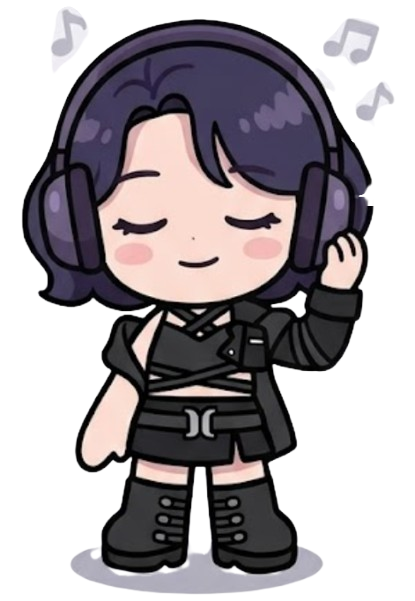
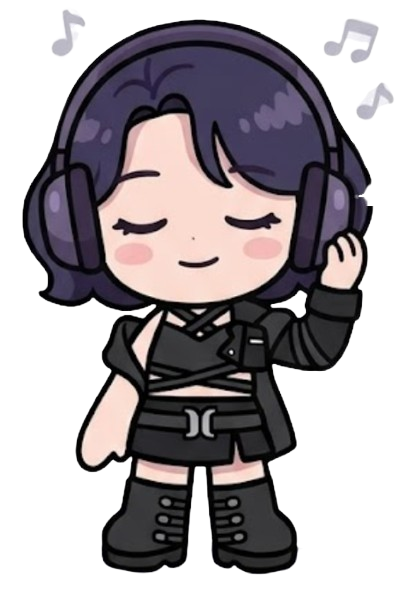
second session of css

diff --git a/index.html b/index.html
@@ -44,63 +44,68 @@
                         tanvi also loooves listening to music and her favorite music keeps evolving every other weeks<br>
                         and she listens to this favorite music a lot one week and forgets about it the other *rolls eyes*<br>
                         so here is a list of her current favorite songs curated by spotify's ai</p>
+                        <ul class="songs-list">
+                        <a href="https://youtu.be/H1Yt0xJKDY8" alt="link to mariah carey's obsessed music video">obsessed by mariah carey</a>
+                        </ul>
+                        <ul class="songs-list">
+                            <a href="https://youtu.be/Rt9tW3cMLhI" alt="link to olivia rodrigo's stupid song music video">stupid song by olivia rodrigo</a>
+                        </ul>
+                        <ul class="songs-list">
+                            <a href="https://youtu.be/o_1aF54DO60" alt="link to lana del rey's young and beautiful music video">young and beautiful by lana del rey</a>
+                        </ul>
+                        <ul class="songs-list">
+                            <a href="https://youtu.be/t4H_Zoh7G5A" alt="link to jennifer lopez and pitbull's on the floor music video">on the floor by jennifer lopez and pitbull</a>
+                        </ul>
+                        <ul class="songs-list">
+                            <a href="https://youtu.be/sQEgklEwhSo" alt="link to katy perry's harleys in hawaii music video">harlyes in hawaii by katy perry</a>
+                        </ul>
+                        <p id="songs-list-ps-note">p.s click on the name of the song to watch the music video</p>
                     </div>
                     <img src="images/navis_music.png" alt="image of navis with headphones" id="navis-image">
                 </div>
-                <ul class="songs-list">
-                    <a href="https://youtu.be/H1Yt0xJKDY8" alt="link to mariah carey's obsessed music video">obsessed by mariah carey</a>
-                </ul>
-                <ul class="songs-list">
-                    <a href="https://youtu.be/Rt9tW3cMLhI" alt="link to olivia rodrigo's stupid song music video">stupid song by olivia rodrigo</a>
-                </ul>
-                <ul class="songs-list">
-                    <a href="https://youtu.be/o_1aF54DO60" alt="link to lana del rey's young and beautiful music video">young and beautiful by lana del rey</a>
-                </ul>
-                <ul class="songs-list">
-                    <a href="https://youtu.be/t4H_Zoh7G5A" alt="link to jennifer lopez and pitbull's on the floor music video">on the floor by jennifer lopez and pitbull</a>
-                </ul>
-                <ul class="songs-list">
-                    <a href="https://youtu.be/sQEgklEwhSo" alt="link to katy perry's harleys in hawaii music video">harlyes in hawaii by katy perry</a>
-                </ul>
-                <p id="songs-list-ps-note">p.s click on the name of the song to watch the music video</p>
             </div>
             <div class="coding-languages">
-                <img src="images/navis_laptop.png" alt="image of navis with a laptop" id="navis-image">
-                <h2 id="coding-languages-header">code code code</h2>
-                <p id="coding-languages-desc">so tanvi recently got into the magical and frustrating world of coding<br>
-                she's still navigating through it and is at a beginner stage in her journey<br>
-                but today <strong>I</strong> decided to share some progress on her learning (i'm so great)<br>
-                so here is a list of the coding languages she's <em>explored</em> so far (it's all gibberish for me but i'll try my best to explain)</p>
+                <div class="coding-languages-desc-and-navis">
+                    <img src="images/navis_laptop.png" alt="image of navis with a laptop" id="navis-image">
+                    <div class="coding-languages-desc">
+                        <h2 id="coding-languages-header">code code code</h2>
+                        <p id="coding-languages-desc">so tanvi recently got into the magical and frustrating world of coding<br>
+                        she's still navigating through it and is at a beginner stage in her journey<br>
+                        but today <strong>I</strong> decided to share some progress on her learning (i'm so great)<br>
+                        so here is a list of the coding languages she's <em>explored</em> so far<br>
+                        (it's all gibberish for me but i'll try my best to explain)</p>
+                    </div>
+                </div>
                 <ul class="coding-languages-list">
-                    <img src="images/python.jpg" alt="python logo">
+                    <img src="images/python.jpg" alt="python logo" class="coding-languages-logo">
                     <p>python:<br>
                     this is the first ever coding language which she learnt (and remembered)<br>
                     she likes python because of its easy to learn syntax and would definitely recommend this to a beginner<br>
                     she learnt it by watching videos on youtube, doing mini puzzles, and taking lessons through her school's programming club</p>
                 </ul>
                 <ul class="coding-languages-list">
-                    <img src="images/java.png" alt="java logo">
+                    <img src="images/java.png" alt="java logo" class="coding-languages-logo">
                     <p>java:<br>
                     she started learning this a while after python and is currently in a class for it at her school<br>
                     after a long time of only python, tanvi honestly found java syntax confusing, especially when stuff which aren't really there in python started showing up here<br>
                     but she's excited to learn a new language!</p>
                 </ul>
                 <ul class="coding-languages-list">
-                    <img src="images/c.jpg" alt="c logo">
+                    <img src="images/c.jpg" alt="c logo" class="coding-languages-logo">
                     <p>c:<br>
                     she tried out a few puzzles in c as part of an online course and never explored too much<br>
                     after learning java, she found c's and java's syntax to be kind of similar (i don't see it though...)<br>
                     if it was up to me, i wouldn't even have added this to the list but she did explore and do stuff here so i have to *ugh*</p>
                 </ul>
                 <ul class="coding-languages-list">
-                    <img src="images/js.jpg" alt="javascript logo">
+                    <img src="images/js.jpg" alt="javascript logo" class="coding-languages-logo">
                     <p>javascript:<br>
                     she learned javascript first through a two week summer program on web development (funn)<br>
                     the thing she likes about it is how it connects to web deveopment -- something which she didn't experience with the other languages<br>
                     she's not tooo good at it but definitely knows how to use the little syntax she learnt</p>
                 </ul>
                 <ul class="coding-languages-list">
-                    <img src="images/html_css.jpg" alt="html and css logos">
+                    <img src="images/html_css.jpg" alt="html and css logos" class="coding-languages-logo">
                     <p>html & css:<br>
                     i told her these aren't "programming" languages per se but she wanted to include them anyway...<br>
                     she also learnt these languages in the same summer program she learnt javascript in and she has a LOT of fun with these<br>
@@ -108,62 +113,64 @@
                 </ul>
             </div>
             <div class="apps">
-                <img src="images/navis_phone.png" alt="image of navis with a phone" id="navis-image">
-                <h2 id="apps-header">apps tanvi can't live without</h2>
-                <p id="apps-desc">okay so we all have things we can't live without in our lives. for example, i can't live without my coffee maker because i need coffee coffee coffee<br>
-                in the same way, tanvi uses a lot of apps daily, but there's some she can't live without (i totally get how she feels here)<br>
-                so let's look at a few *insert sparkle* amazing apps in her devices</p>
+                <div class="apps-desc">
+                    <div class="apps-desc-text">
+                        <h2 id="apps-header">apps tanvi can't live without</h2>
+                        <p id="apps-desc">okay so we all have things we can't live without in our lives. for example, i can't live without my coffee maker because i need coffee coffee coffee<br>
+                        in the same way, tanvi uses a lot of apps daily, but there's some she can't live without (i totally get how she feels here)<br>
+                        so let's look at a few *insert sparkle* amazing apps in her devices</p>
+                    </div>
+                    <img src="images/navis_phone.png" alt="image of navis with a phone" id="navis-image">
+                </div>
                 <ul class="apps-list">
-                    <img src="images/notion.jpg" alt="notion logo">
                     <p>notion:<br>
                     this is honestly such a multipurpose app, she and i both looovee it!<br>
                     you can literally find so many great templates for a plethora of tasks and you can build something from scratch as well :))<br>
                     she uses it to keep track of her subjects and assignments, notes, outfits, workout plans, and even her watchlist and reading list<br>
                     it is a bit hard to get started with as there is a lot of information to take in...best thing to do is pick a template and go crazy</p>
+                    <img src="images/notion.jpg" alt="notion logo" class="apps-logo">
                 </ul>
                 <ul class="apps-list">
-                    <img src="images/calendar.jpg" alt="google calendar logo">
                     <p>google calendar:<br>
                     i think she would not have made it to any of her plans during junior year without google calendar<br>
                     she uses it mainly to keep track of any events happening throught the week or even later, and also uses it for reminders<br>
                     the only this actually helps her remember things is that she has a huge widget of it on her phone so she has to look at it everyday<br>
                     would definitely recommend this app (and the widget method)!!</p>
+                    <img src="images/calendar.jpg" alt="google calendar logo" class="apps-logo">
                 </ul>
                 <ul class="apps-list">
-                    <img src="images/spotify.jpg" alt="spotify logo">
                     <p>spotify:<br>
                     when i tell you she loves spotify, i mean she LOVES spotify<br>
                     she actually can't go even half a day without listening to a song on it *tsk tsk tsk*<br>
                     listening to the songs there is her way of escaping her surroundings temporarily and also focus on certain tasks<br>
                     obviously, there are other music apps too but this was the one she first chose a while ago and stuck with it</p>
+                    <img src="images/spotify.jpg" alt="spotify logo" class="apps-logo">
                 </ul>
                 <ul class="apps-list">
-                    <img src="images/notes.jpg" alt="notes logo">
                     <p>notes:<br>
                     the notes app on the iphone is in collaboration with google calendar for saving her life during junior year <br>
                     i vividly remember all the bus rides and free periods where she tapped away on her notes about random things<br>
                     the main reason she used it is that the app was conveniently on her phone whenever she needed it<br>
                     most of the time she used it to quickly note down the tasks she had to do and organized them at a later time<br></p>
+                    <img src="images/notes.jpg" alt="notes logo" class="apps-logo">
                 </ul>
                 <ul class="apps-list">
-                    <img src="images/brave.jpg" alt="brave browser logo">
                     <p>brave:<br>
                     not many people might have heard about this but brave is a browser, just like google chrome or microsoft edge<br>
                     this looks a lot like google chrome so when she switched to this from chrome, she felt right at home (hey that rhymed!)<br>
                     the reason she likes this browser is that it blocks any unnecessary cookies or extra advertisements on websites<br>
                     and the best part? NO COMMERCIALS ON YOUTUBE!! (she got youtube premium for free)</p>
+                    <img src="images/brave.jpg" alt="brave browser logo" class="apps-logo">
                 </ul>
             </div>
             <div class="footer">
                 <img src="images/navis.png" alt="image of navis" id="navis-image">
-                <h2 id="footer-header">stay connected!</h2>
-                <ul class="links">
-                    <a href="https://www.linkedin.com/in/tanvi-mukka/" alt="link to tanvi's linkedin">here is a link to tanvi's linkedin profile</a>
-                </ul>
-                <ul class="links">
-                    <a href="https://github.com/TanviMukka" alt="link to tanvi's github">here is a link to tanvi's github account</a>
-                </ul>
-                <p>this website was built in September 2026 with HTML, CSS, and JS</p>
+                <div class="footer-desc">
+                    <h2 id="footer-header">stay connected!</h2>
+                    <p><a href="https://www.linkedin.com/in/tanvi-mukka/" alt="link to tanvi's linkedin">here is a link to tanvi's linkedin profile</a></p>
+                    <p><a href="https://github.com/TanviMukka" alt="link to tanvi's github">here is a link to tanvi's github account</a></p>
+                    <p>this website was built in September 2026 with HTML, CSS, and JS</p>
+                </div>
             </div>
         </main>
     </body>

diff --git a/styles.css b/styles.css
@@ -32,6 +32,7 @@ body {
 .about-me-quote-and-navis {
     display: flex;
     align-items: center;
+    justify-content: flex-end;
     text-align: right;
     gap: 10px;
 }
@@ -49,3 +50,46 @@ body {
     text-align: right;
     gap: 10px;
 }
+
+.coding-languages-desc-and-navis {
+    display: flex;
+    align-items: center;
+    text-align: left;
+    gap: 10px;
+}
+
+.coding-languages-logo {
+    height: 150px;
+}
+
+.coding-languages-list {
+    display: flex;
+    align-items: center;
+    gap: 10px;
+}
+
+.apps-desc {
+    display: flex;
+    text-align: right;
+    align-items: center;
+}
+
+.apps-logo {
+    height: 150px;
+}
+
+.apps-list {
+    display: flex;
+    align-items: center;
+    gap: 10px;
+    text-align: right;
+}
+
+.footer {
+    display: flex;
+    text-align: left;
+    align-items: center;
+    gap: 10px;
+}
+
+/*https://www.w3.org/Style/Examples/007/fonts.en.html*/
